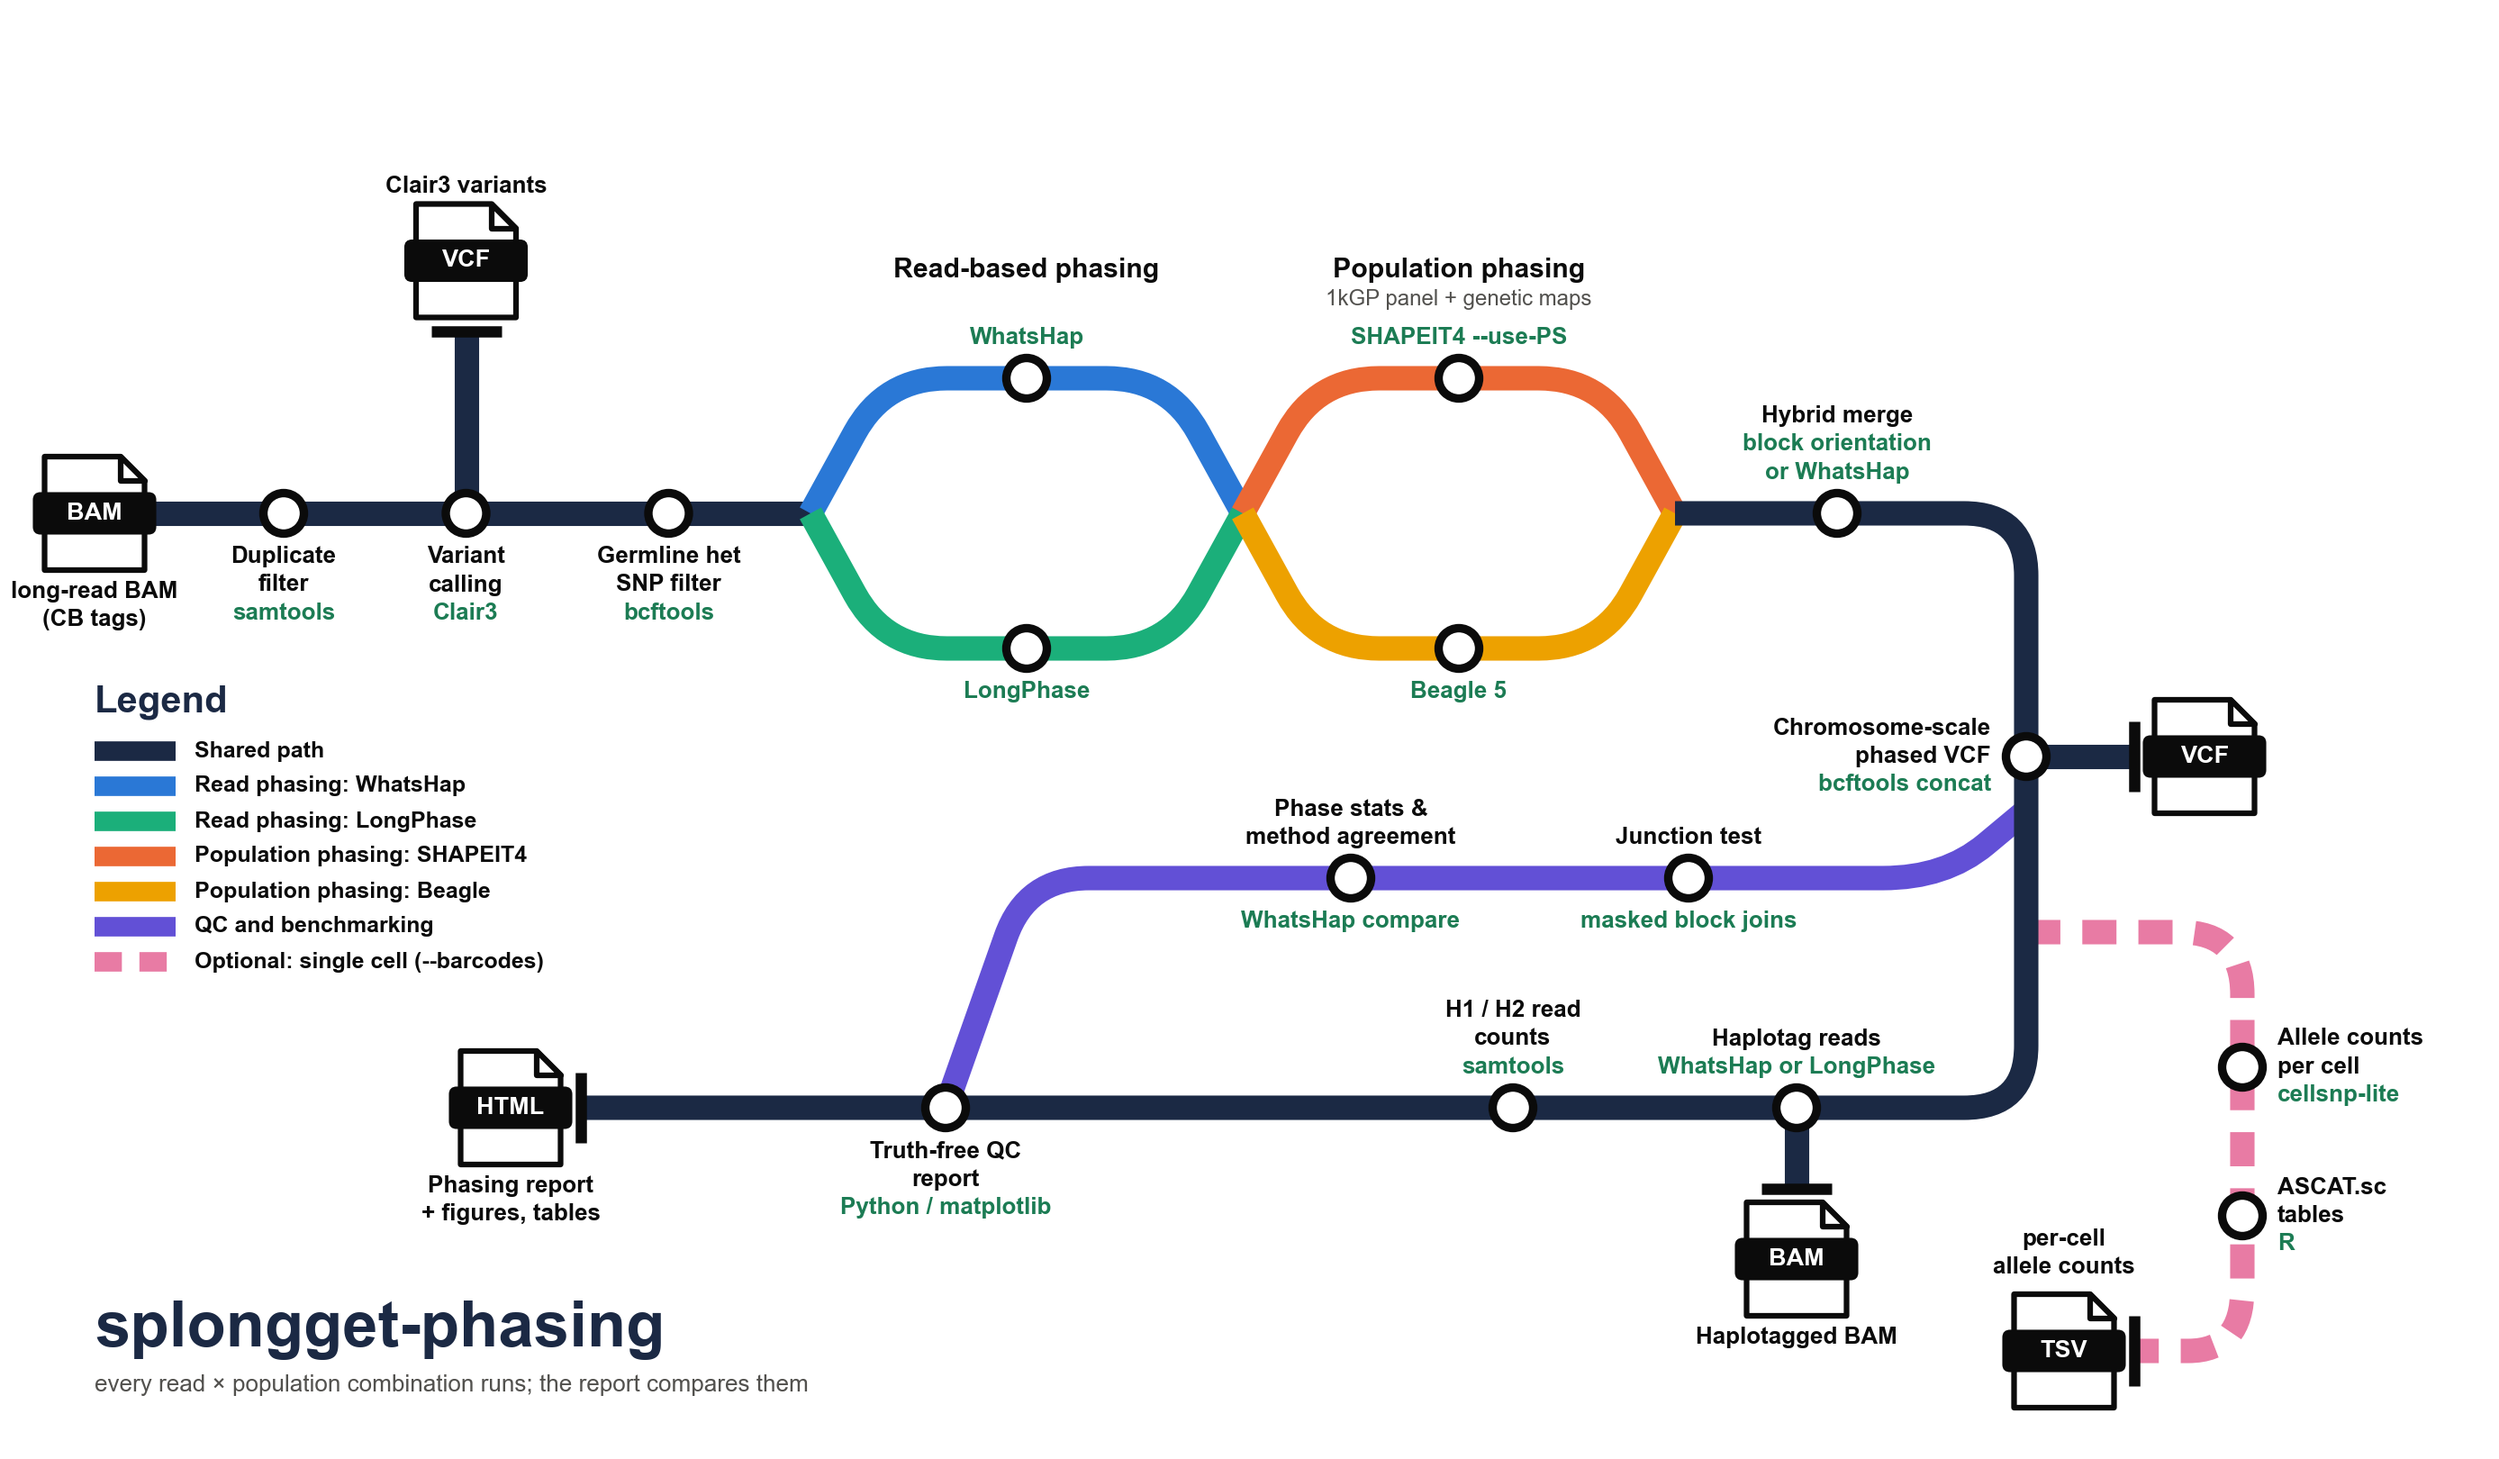
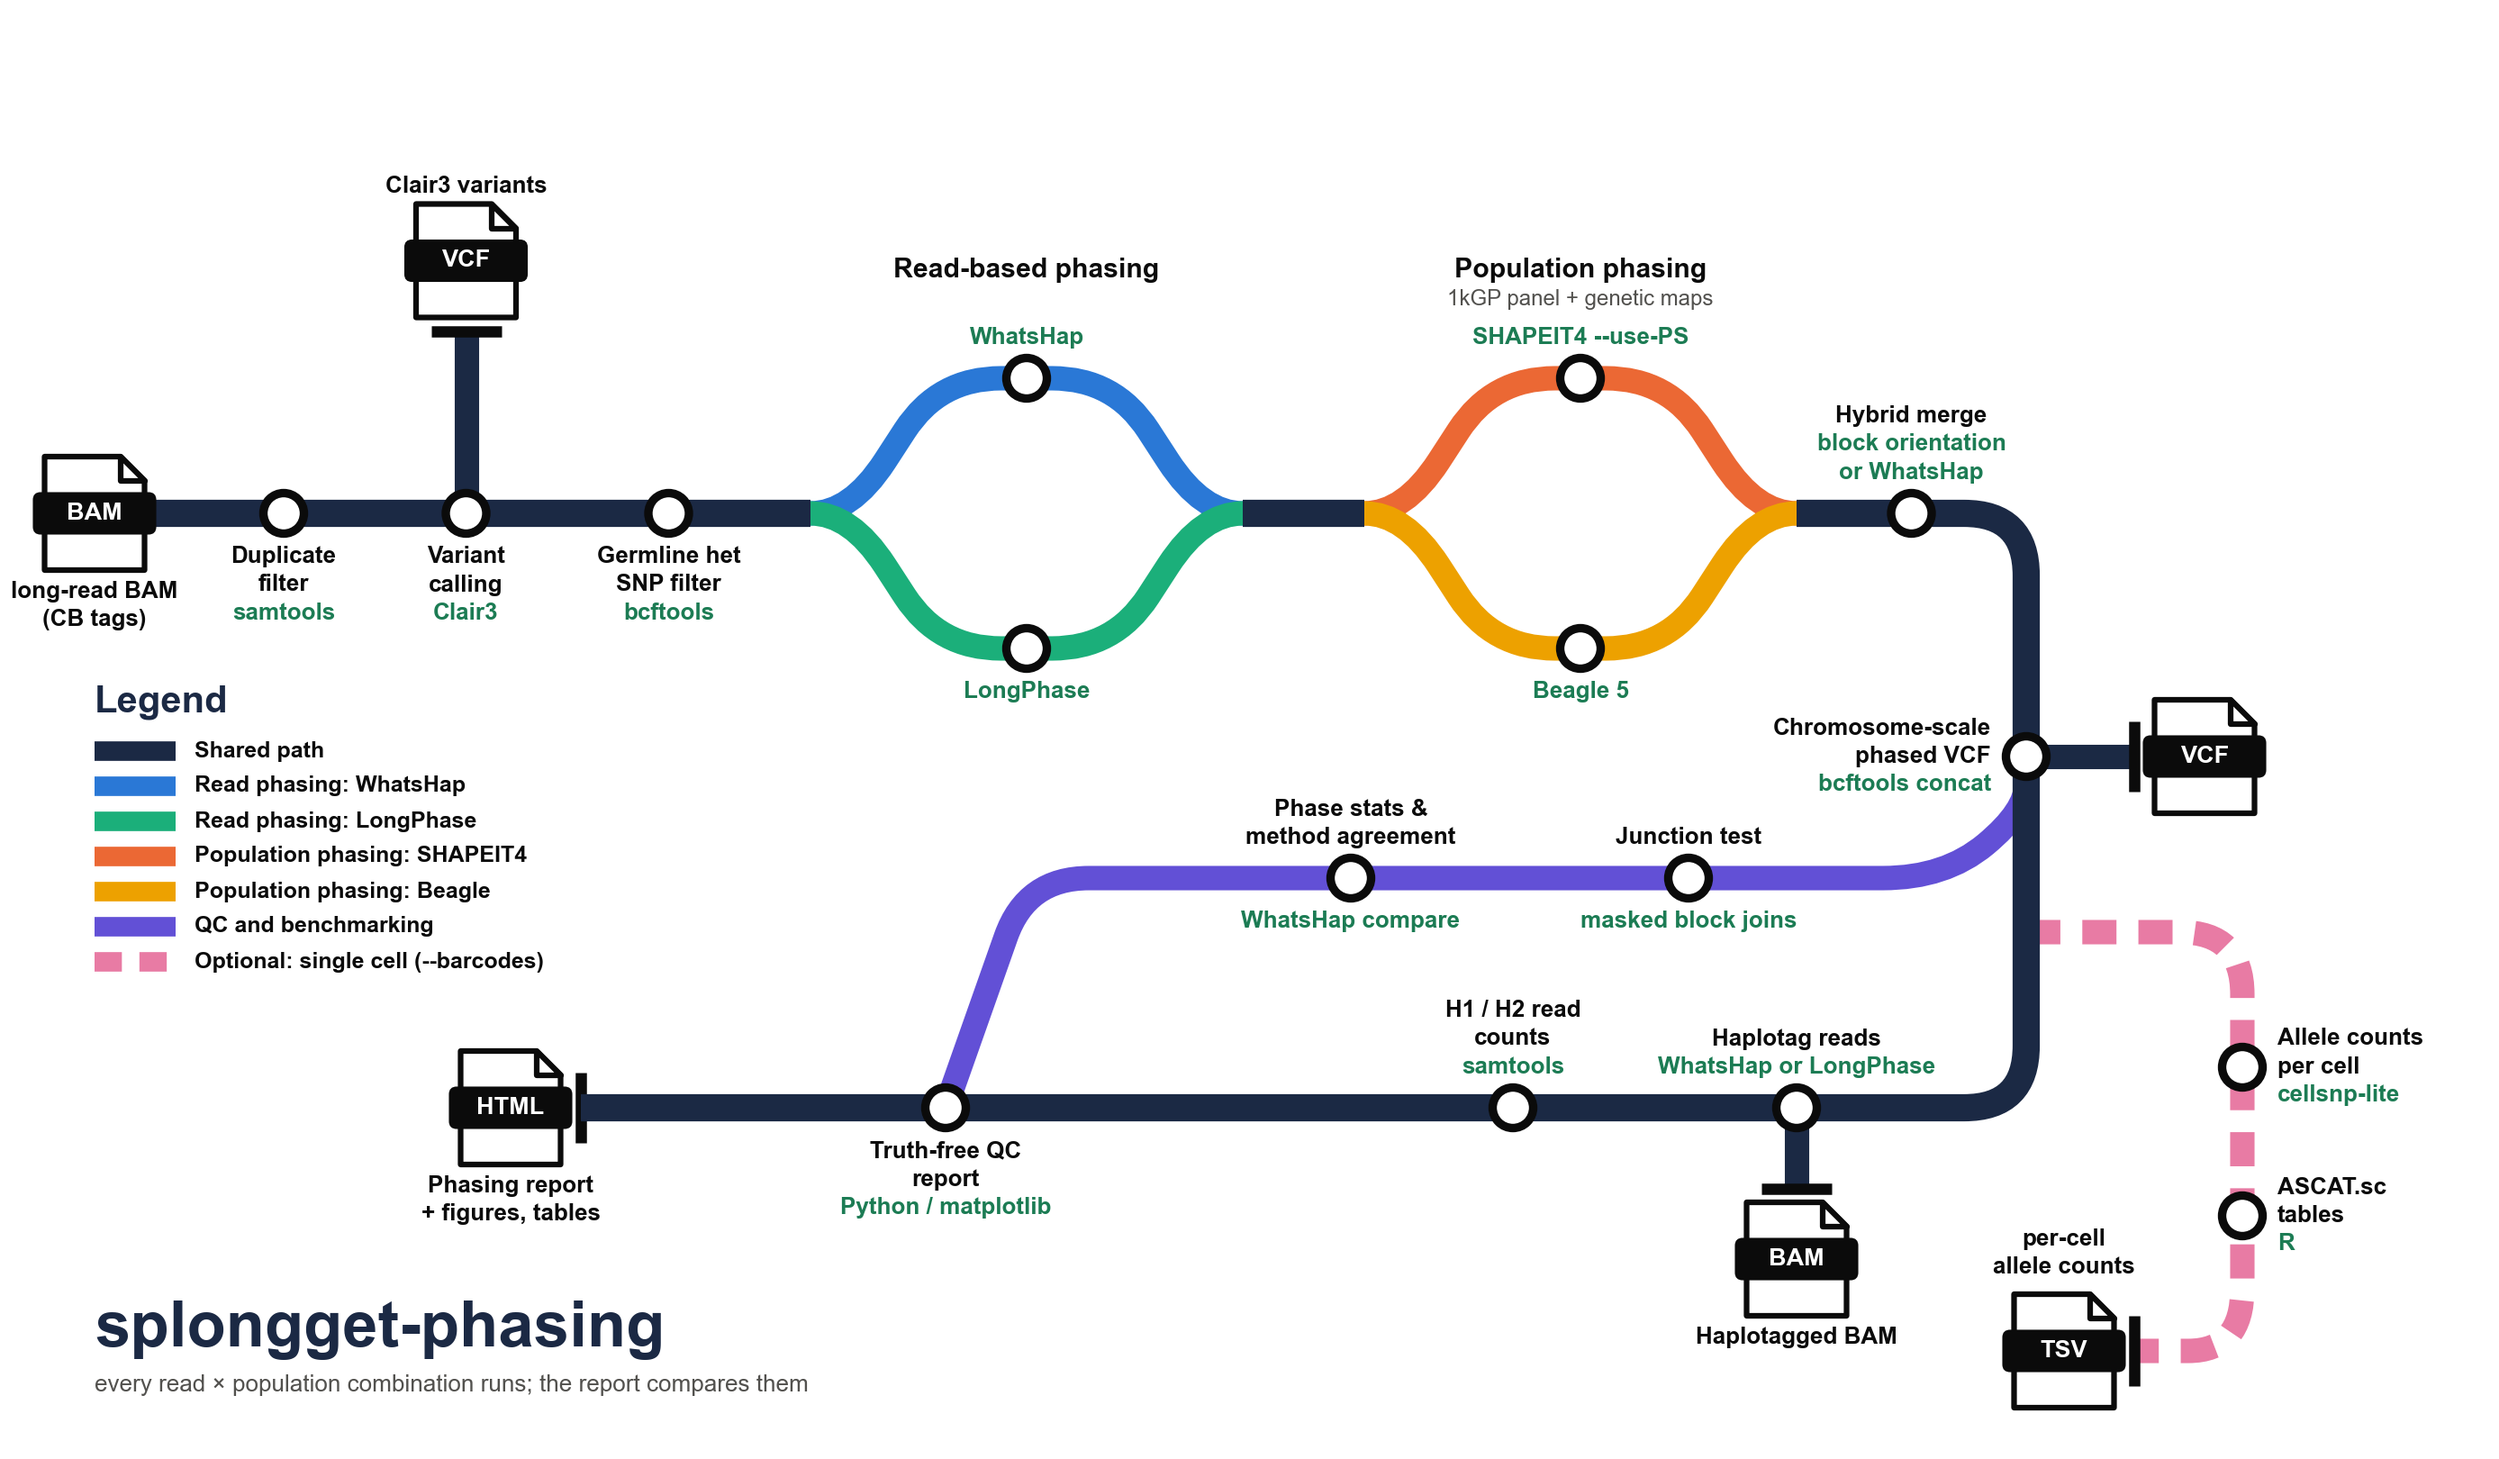
Tube map: smooth forks, separate read and population sections

diff --git a/assets/make_tube_map.py b/assets/make_tube_map.py
@@ -48,8 +48,8 @@ def rounded(points, r=46):
     return Path(verts, codes)
 
 
-def track(ax, pts, color, dashed=False, z=2):
-    ax.add_patch(PathPatch(rounded(pts), fill=False, edgecolor=color, lw=LW, capstyle="butt",
+def track(ax, pts, color, dashed=False, z=2, lw=LW):
+    ax.add_patch(PathPatch(rounded(pts), fill=False, edgecolor=color, lw=lw, capstyle="butt",
                            joinstyle="round", zorder=z, linestyle=(0, (1.4, 0.9)) if dashed else "-"))
 
 
@@ -103,13 +103,21 @@ def main():
     QY = 650                 # QC line
 
     # ---------------- tracks
-    track(ax, [(110, Y1), (600, Y1)], SHARED)
-    track(ax, [(600, Y1), (655, UP), (865, UP), (920, Y1)], WHATSHAP)
-    track(ax, [(600, Y1), (655, DN), (865, DN), (920, Y1)], LONGPHASE)
-    track(ax, [(920, Y1), (975, UP), (1185, UP), (1240, Y1)], SHAPEIT4)
-    track(ax, [(920, Y1), (975, DN), (1185, DN), (1240, Y1)], BEAGLE)
-    track(ax, [(1240, Y1), (XR, Y1), (XR, Y2), (430, Y2)], SHARED)
-    track(ax, [(XR, 600), (XR - 60, QY), (760, QY), (700, Y2)], QC, z=1)
+    # Coloured tracks leave and rejoin the shared line horizontally (60 px stubs) and the shared
+    # line is drawn on top (z=4), so every split / merge is a smooth bend without cut ends.
+    def fork(x0, x1, color, y):
+        track(ax, [(x0, Y1), (x0 + 60, Y1), (x0 + 125, y), (x1 - 125, y), (x1 - 60, Y1), (x1, Y1)], color)
+
+    fork(570, 950, WHATSHAP, UP)
+    fork(570, 950, LONGPHASE, DN)
+    fork(980, 1360, SHAPEIT4, UP)
+    fork(980, 1360, BEAGLE, DN)
+    # shared line ends exactly where the bends start (stub end - 30 px corner radius); slightly wider to
+    # cover the anti-aliased edges of the stubs underneath
+    track(ax, [(110, Y1), (600, Y1)], SHARED, z=4, lw=LW + 1.5)
+    track(ax, [(920, Y1), (1010, Y1)], SHARED, z=4, lw=LW + 1.5)
+    track(ax, [(1330, Y1), (XR, Y1), (XR, Y2), (430, Y2)], SHARED, z=4, lw=LW + 1.5)
+    track(ax, [(XR, 560), (XR, 600), (XR - 60, QY), (760, QY), (700, Y2)], QC, z=1)
     track(ax, [(XR, 690), (1660, 690), (1660, 1000), (1580, 1000)], CELLS, dashed=True, z=1)
     track(ax, [(345, Y1), (345, 245)], SHARED, z=1)                 # Clair3 VCF out
     track(ax, [(XR, 560), (1580, 560)], SHARED, z=1)                # phased VCF out
@@ -127,15 +135,15 @@ def main():
     label(ax, 345, 138, "Clair3 variants")
 
     ax.text(760, UP - 75, "Read-based phasing", ha="center", fontsize=14.5, fontweight="bold", color=INK)
-    ax.text(1080, UP - 75, "Population phasing", ha="center", fontsize=14.5, fontweight="bold", color=INK)
-    ax.text(1080, UP - 54, "1kGP panel + genetic maps", ha="center", fontsize=11.5, color="#52514e")
+    ax.text(1170, UP - 75, "Population phasing", ha="center", fontsize=14.5, fontweight="bold", color=INK)
+    ax.text(1170, UP - 54, "1kGP panel + genetic maps", ha="center", fontsize=11.5, color="#52514e")
     for x, y, tool, va in [(760, UP, "WhatsHap", "bottom"), (760, DN, "LongPhase", "top"),
-                           (1080, UP, "SHAPEIT4 --use-PS", "bottom"), (1080, DN, "Beagle 5", "top")]:
+                           (1170, UP, "SHAPEIT4 --use-PS", "bottom"), (1170, DN, "Beagle 5", "top")]:
         stop(ax, x, y)
         label(ax, x, y - 30 if va == "bottom" else y + 32, "", tool, va=va)
 
-    stop(ax, 1360, Y1)
-    label(ax, 1360, Y1 - 30, "Hybrid merge", "block orientation\nor WhatsHap")
+    stop(ax, 1415, Y1)
+    label(ax, 1415, Y1 - 30, "Hybrid merge", "block orientation\nor WhatsHap")
 
     # ---------------- right side: phased VCF + single-cell branch
     stop(ax, XR, 560)
